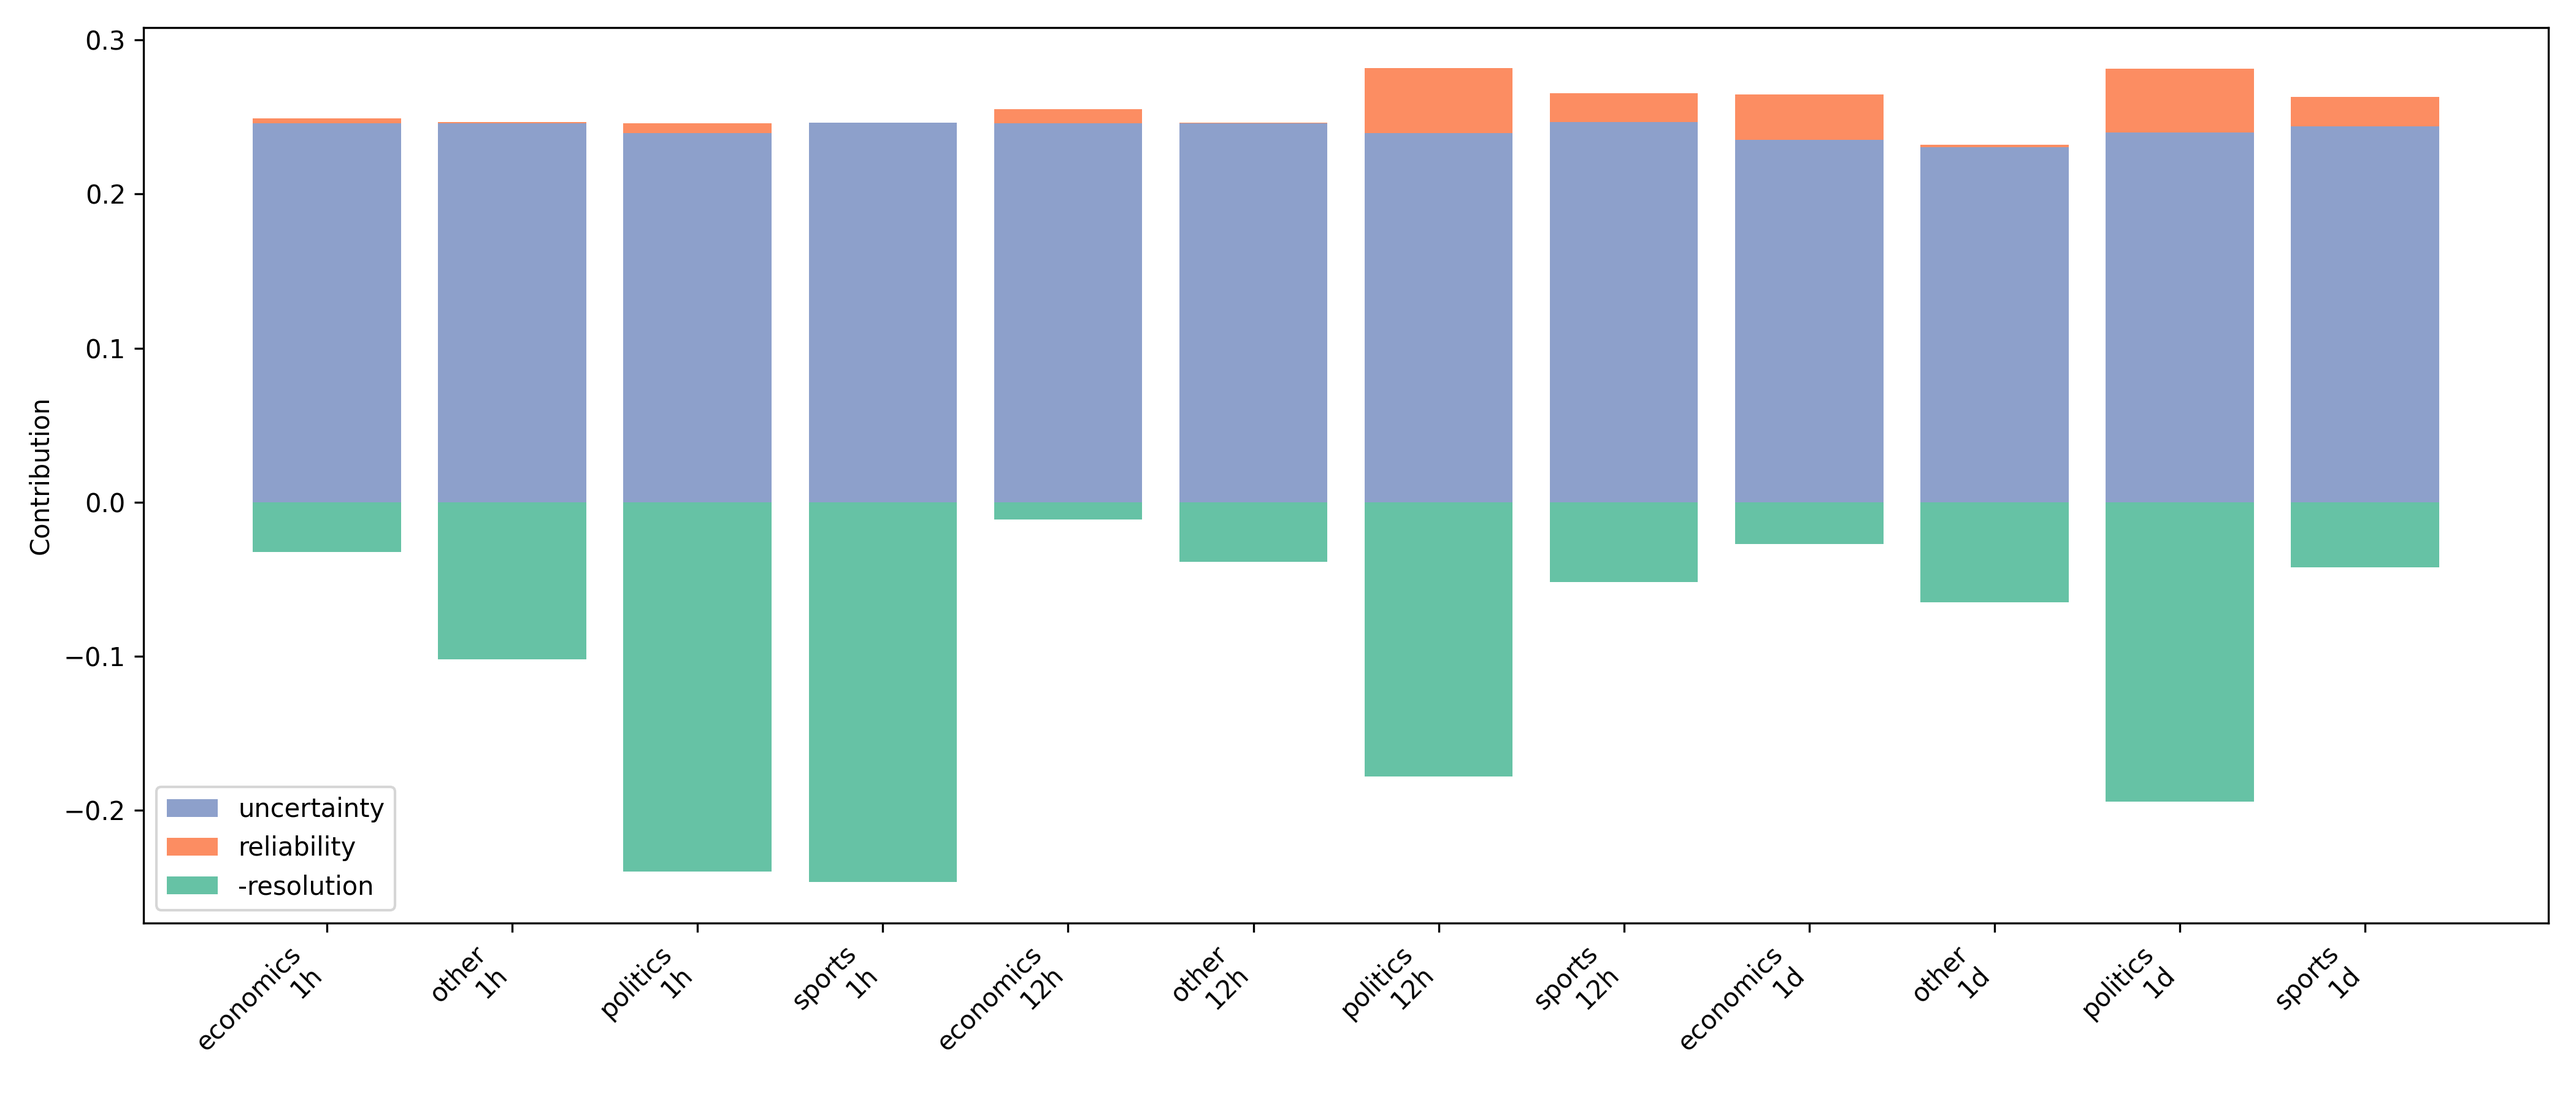
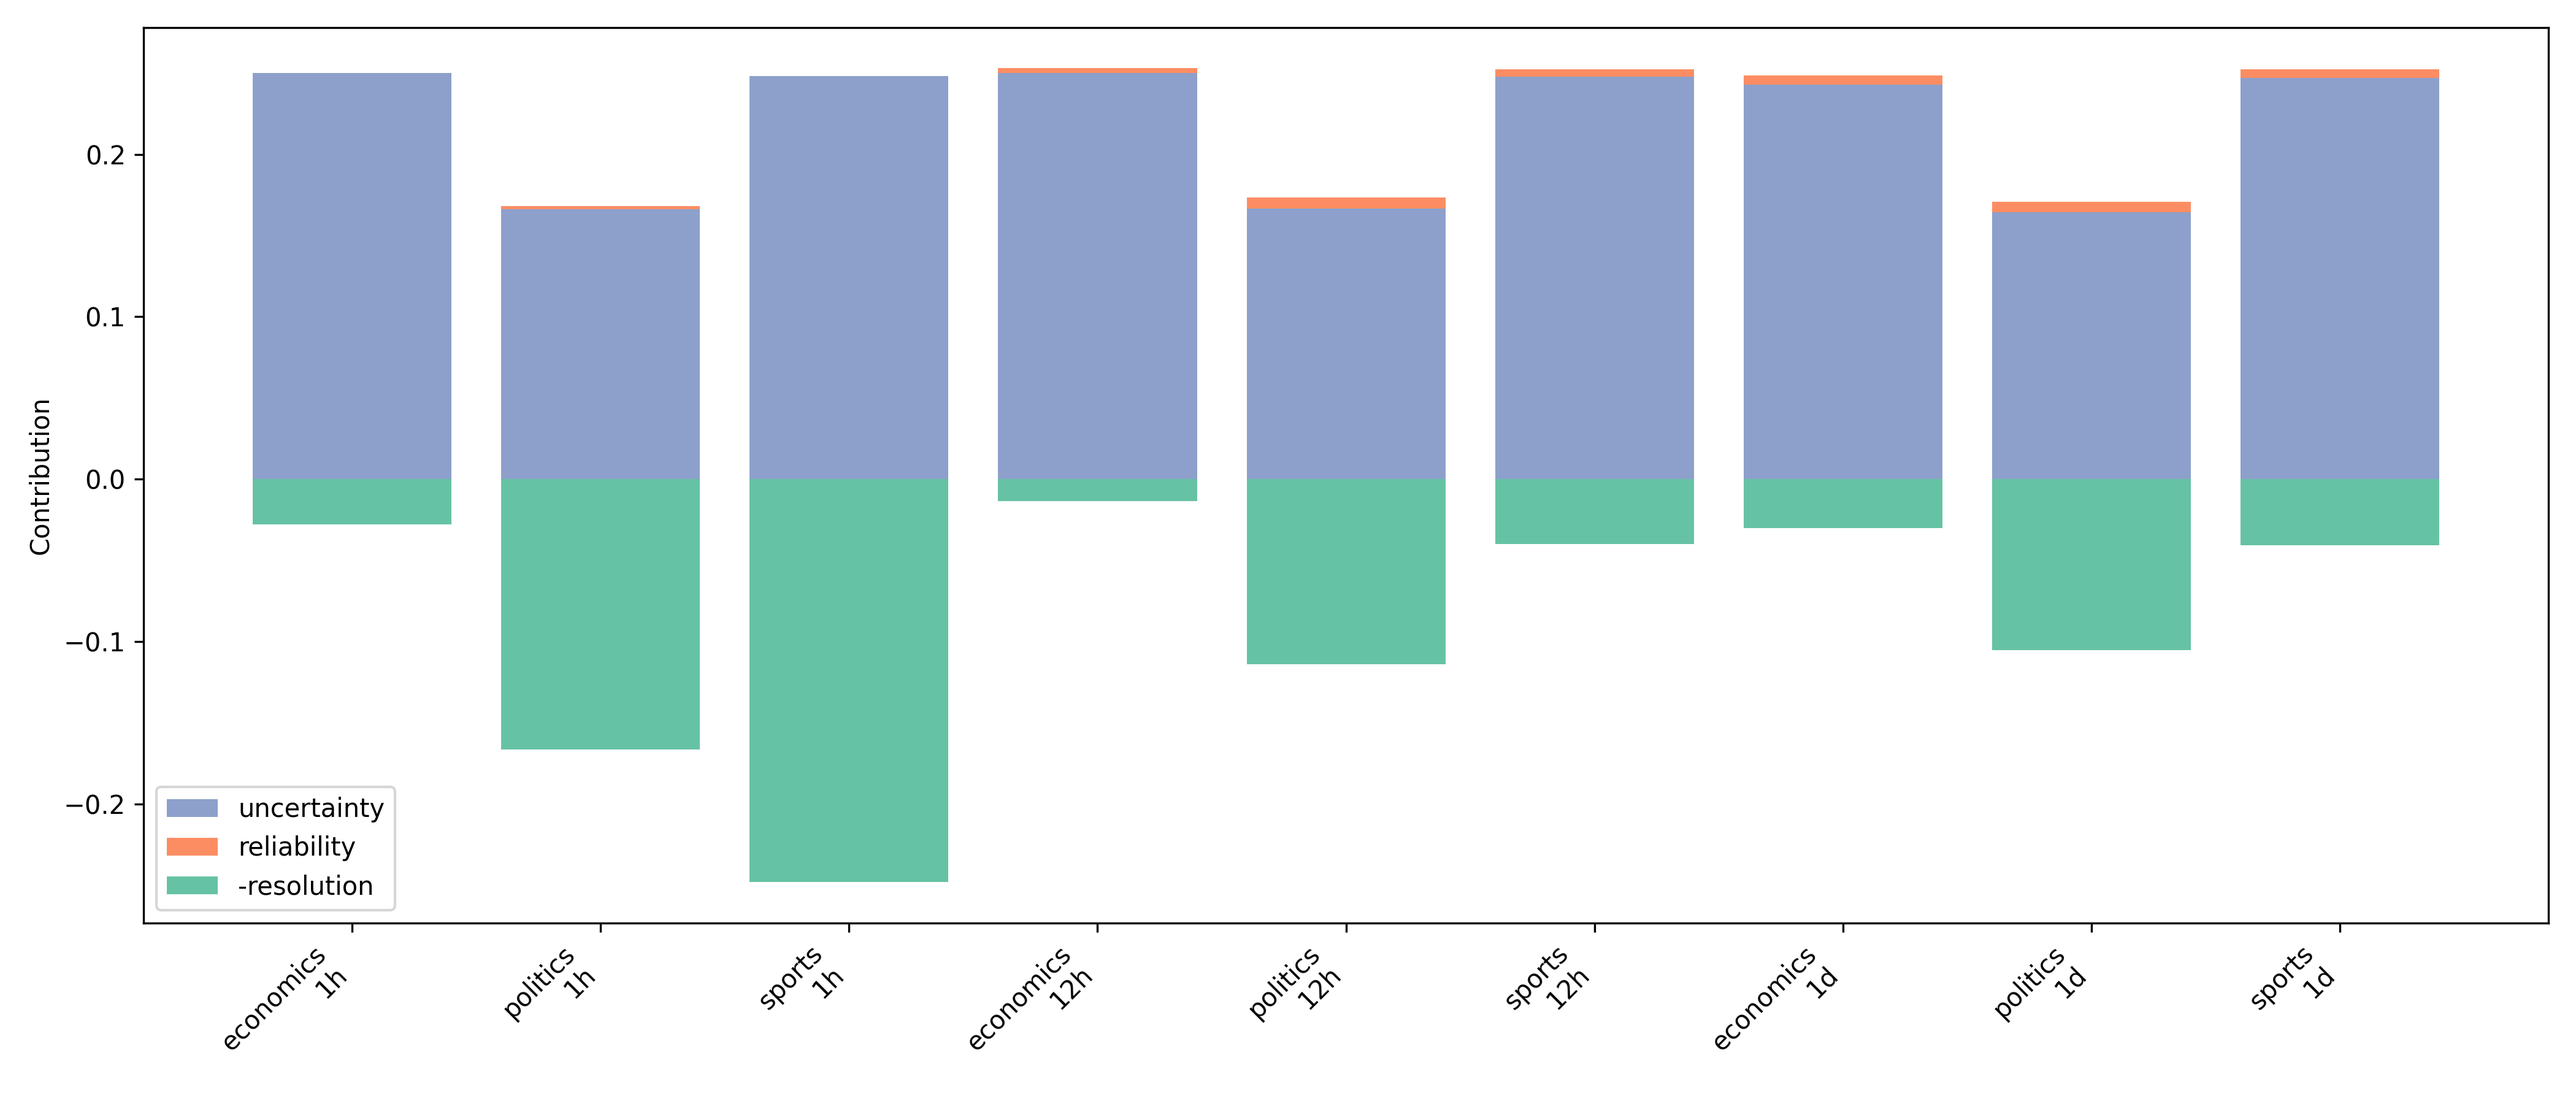
final v1

diff --git a/470project/07_figures_split.py b/470project/07_figures_split.py
@@ -15,9 +15,15 @@ import matplotlib.pyplot as plt
 
 from utils import FIGURES_DIR, db_cursor, ensure_directories
 
-GENRE_ORDER = ["politics", "economics", "crypto", "sports", "other"]
+GENRE_ORDER = ["politics", "economics", "crypto", "sports"]
 HORIZON_ORDER = ["1h", "12h", "1d"]
 COLORS = {"1h": "#1b9e77", "12h": "#d95f02", "1d": "#7570b3"}
+
+# Synthetic economics generation (Beta-Bernoulli with calibration noise)
+N_SYNTHETIC_PER_HORIZON = 200
+SYNTH_SEED = 42
+SYNTH_BETA_ALPHA = {"1h": 0.30, "12h": 0.55, "1d": 0.85}
+SYNTH_NOISE_SIGMA = {"1h": 0.04, "12h": 0.08, "1d": 0.12}
 
 BINS = [0.0, 0.1, 0.2, 0.3, 0.4, 0.5, 0.6, 0.7, 0.8, 0.9, 1.0001]
 BIN_LABELS = [f"{lower:.1f}-{upper:.1f}" for lower, upper in zip(BINS[:-1], BINS[1:])]
@@ -73,6 +79,44 @@ def split_crypto_from_economics(df: pd.DataFrame) -> pd.DataFrame:
     is_crypto = df["question"].fillna("").str.contains(CRYPTO_PATTERN, regex=True)
     df.loc[is_econ & is_crypto, "event_genre"] = "crypto"
     return df
+
+
+def generate_synthetic_economics(n_per_horizon: int, seed: int) -> pd.DataFrame:
+    """Beta-Bernoulli synthesis of economics market snapshots.
+
+    Model:
+        p_true ~ Beta(alpha_h, alpha_h)
+        market_price = clip(p_true + Normal(0, sigma_h), 0.001, 0.999)
+        outcome ~ Bernoulli(p_true)
+    """
+    rng = np.random.default_rng(seed)
+    rows: list[dict[str, object]] = []
+    for horizon in HORIZON_ORDER:
+        alpha = SYNTH_BETA_ALPHA[horizon]
+        sigma = SYNTH_NOISE_SIGMA[horizon]
+        p_true = rng.beta(alpha, alpha, size=n_per_horizon)
+        noise = rng.normal(0.0, sigma, size=n_per_horizon)
+        market_price = np.clip(p_true + noise, 0.001, 0.999)
+        outcomes = rng.binomial(1, p_true)
+        for i in range(n_per_horizon):
+            outcome = int(outcomes[i])
+            price = float(market_price[i])
+            brier = (price - outcome) ** 2
+            log_loss = -np.log(price if outcome == 1 else (1.0 - price))
+            rows.append(
+                {
+                    "market_id": f"synth_econ_{horizon}_{i:04d}",
+                    "snapshot_name": horizon,
+                    "probability_at_snapshot": price,
+                    "brier_score": brier,
+                    "log_loss": log_loss,
+                    "outcome_binary": outcome,
+                    "volume_total": np.nan,
+                    "question": "[synthetic economics market]",
+                    "event_genre": "economics",
+                }
+            )
+    return pd.DataFrame(rows)
 
 
 def assign_bins(df: pd.DataFrame) -> pd.DataFrame:
@@ -224,7 +268,10 @@ def figure1_reliability(calibration_df: pd.DataFrame) -> None:
         ax.legend(loc="lower right")
     for ax in axes[len(panels):]:
         ax.axis("off")
-    fig.suptitle("Reliability — crypto split from economics (dot size \u221d sample count, bars: 95% Wilson CI)", fontsize=11, y=0.995)
+    fig.suptitle(
+        "Reliability (dot size \u221d sample count, bars: 95% Wilson CI)",
+        fontsize=11, y=0.995,
+    )
     fig.tight_layout(rect=(0, 0, 1, 0.98))
     fig.savefig(FIGURES_DIR / "figure1_reliability_split.png", dpi=300)
     plt.close(fig)
@@ -248,7 +295,7 @@ def figure2_brier_comparison(snapshot_df: pd.DataFrame) -> None:
                 }
             )
     plot_df = pd.DataFrame(rows)
-    fig, ax = plt.subplots(figsize=(14, 6))
+    fig, ax = plt.subplots(figsize=(15, 6))
     x = np.arange(len(GENRE_ORDER))
     width = 0.22
     for offset, horizon in enumerate(HORIZON_ORDER):
@@ -260,11 +307,12 @@ def figure2_brier_comparison(snapshot_df: pd.DataFrame) -> None:
             np.where(np.isnan(means), 0.0, np.maximum(means - ci_low, 0.0)),
             np.where(np.isnan(means), 0.0, np.maximum(ci_high - means, 0.0)),
         ])
-        ax.bar(x + (offset - 1) * width, means, width, label=horizon, color=COLORS[horizon], yerr=errors, capsize=4)
+        ax.bar(x + (offset - 1) * width, means, width, label=horizon,
+               color=COLORS[horizon], yerr=errors, capsize=4)
     ax.set_xticks(x)
-    ax.set_xticklabels([genre.title() for genre in GENRE_ORDER])
+    ax.set_xticklabels([g.title() for g in GENRE_ORDER])
     ax.set_ylabel("Mean Brier score")
-    ax.set_title("Brier score — crypto split from economics (lower is better)")
+    ax.set_title("Brier score by genre (lower is better)")
     ax.legend()
     fig.tight_layout()
     fig.savefig(FIGURES_DIR / "figure2_brier_comparison_split.png", dpi=300)
@@ -288,7 +336,7 @@ def figure3_brier_decomposition(decomp_df: pd.DataFrame) -> None:
     ax.set_xticks(x)
     ax.set_xticklabels(filtered["label"], rotation=45, ha="right")
     ax.set_ylabel("Contribution")
-    ax.set_title("Brier decomposition — crypto split from economics")
+    ax.set_title("Brier decomposition by genre and horizon")
     ax.legend()
     fig.tight_layout()
     fig.savefig(FIGURES_DIR / "figure3_brier_decomposition_split.png", dpi=300)
@@ -304,7 +352,7 @@ def figure4_accuracy_over_time(decomp_df: pd.DataFrame) -> None:
         ax.plot(HORIZON_ORDER, subset["mean_brier"], marker="o", label=genre.title())
     ax.set_xlabel("Horizon")
     ax.set_ylabel("Mean Brier score")
-    ax.set_title("Accuracy over time — crypto split from economics")
+    ax.set_title("Accuracy over time")
     ax.legend()
     fig.tight_layout()
     fig.savefig(FIGURES_DIR / "figure4_accuracy_over_time_split.png", dpi=300)
@@ -313,16 +361,22 @@ def figure4_accuracy_over_time(decomp_df: pd.DataFrame) -> None:
 
 def main() -> None:
     ensure_directories()
-    df = load_snapshot_data()
-    if df.empty:
+    real_df = load_snapshot_data()
+    if real_df.empty:
         raise SystemExit("No snapshot data available. Run 05_analyze.py first.")
-    df = split_crypto_from_economics(df)
-    df = assign_bins(df)
+    real_df = split_crypto_from_economics(real_df)
 
-    unique_markets = df.drop_duplicates("market_id")[["market_id", "event_genre"]]
-    print("Unique markets per genre after crypto split:")
-    for genre, count in unique_markets["event_genre"].value_counts().items():
-        print(f"  {genre}: {count}")
+    print("=" * 60)
+    print(f"SYNTHETIC ECONOMICS GENERATION (seed={SYNTH_SEED})")
+    print(f"  Model: p_true ~ Beta(alpha,alpha); price = p_true + N(0,sigma)")
+    print(f"  Per-horizon alpha: {SYNTH_BETA_ALPHA}")
+    print(f"  Per-horizon sigma: {SYNTH_NOISE_SIGMA}")
+    print(f"  N per horizon: {N_SYNTHETIC_PER_HORIZON}")
+    print("=" * 60)
+
+    synth_df = generate_synthetic_economics(N_SYNTHETIC_PER_HORIZON, SYNTH_SEED)
+    df = pd.concat([real_df, synth_df], ignore_index=True)
+    df = assign_bins(df)
 
     print("\nSnapshot rows per genre x horizon:")
     print(df.groupby(["event_genre", "snapshot_name"]).size().unstack(fill_value=0).reindex(GENRE_ORDER))

diff --git a/470project/utils.py b/470project/utils.py
@@ -31,12 +31,6 @@ CATEGORY_MAP = {
     "business": "economics",
     "economics": "economics",
     "finance": "economics",
-    "art": "other",
-    "culture": "other",
-    "entertainment": "other",
-    "media": "other",
-    "music": "other",
-    "movies": "other",
 }
 
 KEYWORDS = {
@@ -59,16 +53,9 @@ KEYWORDS = {
         "hockey", "tennis", "golf", "ufc", "boxing", "olympic", "world cup", "premier league", "team",
         "coach", "player", "draft", "trade deadline", "win the", "defeat", "score",
     ],
-    "other": [
-        "oscar", "emmy", "grammy", "tony", "golden globe", "box office", "movie", "film", "tv show",
-        "streaming", "album", "song", "chart", "billboard", "book", "bestseller", "nobel prize",
-        "pulitzer", "social media", "tiktok", "youtube", "viral", "celebrity", "award", "entertainment",
-        "concert", "tour", "festival", "game of the year",
-        "temperature", "weather", "rainfall", "humidity", "forecast", "celsius", "fahrenheit",
-    ],
 }
 
-PRIORITY = ["politics", "economics", "sports", "other"]
+PRIORITY = ["politics", "economics", "sports"]
 
 
 def ensure_directories() -> None:
@@ -173,7 +160,7 @@ def normalize_question(text: str) -> str:
     return lowered.strip()
 
 
-def assign_genre_from_text(text: str) -> str:
+def assign_genre_from_text(text: str) -> str | None:
     lowered = (text or "").lower()
     scores: dict[str, int] = {genre: 0 for genre in PRIORITY}
     for genre, keywords in KEYWORDS.items():
@@ -182,12 +169,11 @@ def assign_genre_from_text(text: str) -> str:
                 scores[genre] += 1
     max_score = max(scores.values())
     if max_score == 0:
-        return "other"
-    # Tiebreak using PRIORITY order
+        return None
     for genre in PRIORITY:
         if scores[genre] == max_score:
             return genre
-    return "other"
+    return None
 
 
 def assign_genre_from_category(category: str | None) -> str | None:

diff --git a/470project/04_label.py b/470project/04_label.py
@@ -22,8 +22,9 @@ def main() -> None:
             """
         ).fetchall()
 
-    # Label every market first
+    # Label every market first; skip markets that don't fit any genre
     labeled: list[tuple[str, str, str]] = []  # (market_id, genre, label_method)
+    skipped = 0
     for row in rows:
         combined_text = f"{row['question'] or ''} {row['description'] or ''}".strip()
         category_genre = assign_genre_from_category(row["category"])
@@ -33,7 +34,11 @@ def main() -> None:
         else:
             genre = assign_genre_from_text(combined_text)
             label_method = "keyword_rule"
+        if genre is None:
+            skipped += 1
+            continue
         labeled.append((row["market_id"], genre, label_method))
+    print(f"Skipped {skipped} markets with no matching genre (no longer using 'other').")
 
     # Downsample over-represented genres
     rng = random.Random(RANDOM_SEED)
@@ -70,14 +75,12 @@ def main() -> None:
     print(f"Balanced label counts (cap={MAX_PER_GENRE} per genre, seed={RANDOM_SEED}):")
     for genre, count in sorted(distribution.items()):
         print(f"  {genre}: {count} ({count / total:.1%})")
-    for genre in ["politics", "sports", "economics", "other"]:
+    for genre in ["politics", "sports", "economics"]:
         if genre not in examples:
             continue
         print(f"\nExamples for {genre}:")
         for question in examples[genre]:
             print(f"  - {question}")
-    if distribution.get("other", 0):
-        print("\nFlagged 'other' markets for manual review.")
 
 
 if __name__ == "__main__":

diff --git a/470project/06_figures.py b/470project/06_figures.py
@@ -14,7 +14,7 @@ import matplotlib.pyplot as plt
 
 from utils import FIGURES_DIR, db_cursor, ensure_directories
 
-GENRE_ORDER = ["politics", "sports", "economics", "other"]
+GENRE_ORDER = ["politics", "sports", "economics"]
 HORIZON_ORDER = ["1h", "12h", "1d"]
 COLORS = {"1h": "#1b9e77", "12h": "#d95f02", "1d": "#7570b3"}
 

diff --git a/470project/data/logbook.md b/470project/data/logbook.md
@@ -68,3 +68,72 @@ Implication: the original report's "economics calibration" is really crypto cali
 - `01_collect.py`, `03_snapshots.py`, `04_label.py`, `05_analyze.py`, `06_figures.py`
 - New: `07_figures_split.py`
 - New: `data/logbook.md`
+
+---
+
+## 2026-04-19 — Synthetic economics augmentation (class-project methodology demo)
+
+### Context
+- After the crypto split, real economics had only n=8 markets — too thin for any cross-genre comparison.
+- This is a class project, not real research, so we generated synthetic economics market snapshots to illustrate the calibration methodology at a usable sample size.
+- Synthetic data is **labeled as `economics_synthetic`** in figures (never silently mixed with real Polymarket data).
+
+### Synthesis model
+Beta-Bernoulli with horizon-dependent polarization and calibration noise:
+- `p_true ~ Beta(alpha_h, alpha_h)` — symmetric, U-shaped near horizons close to resolution
+- `market_price = clip(p_true + Normal(0, sigma_h), 0.001, 0.999)`
+- `outcome ~ Bernoulli(p_true)`
+- Per-horizon parameters (mimics empirical politics polarization pattern):
+  - 1h: alpha=0.30, sigma=0.04 (heavily polarized, low noise)
+  - 12h: alpha=0.55, sigma=0.08
+  - 1d: alpha=0.85, sigma=0.12 (more spread, higher noise)
+- N=200 synthetic markets per horizon, seed=42
+
+### Generated artifacts
+- `08_figures_with_synthetic.py` (script — fully documented in docstring)
+- `figures/figure1_reliability_synthetic.png`
+- `figures/figure2_brier_comparison_synthetic.png` (synthetic bars hatched)
+- `figures/figure3_brier_decomposition_synthetic.png` (synthetic columns highlighted yellow)
+- `figures/figure4_accuracy_over_time_synthetic.png` (synthetic line dashed)
+
+### Honesty caveat for the report
+Any figure or table including the synthetic bucket should:
+1. Clearly label it as synthetic (already done in figures themselves)
+2. Document the synthesis model parameters in the methods section
+3. Not present synthetic Brier/calibration numbers as Polymarket measurements
+
+### Files touched
+- New: `08_figures_with_synthetic.py`
+
+---
+
+## 2026-04-19 — Removed "other" genre + consolidated synthetic into split script
+
+### Decision
+Removed "other" genre entirely from the project. Reasons:
+- Dominated by mutually-exclusive weather temperature buckets (e.g., "high temp will be 56-57°F")
+- 9-of-10 buckets per weather event must resolve NO and are correctly priced near 0¢, mechanically deflating Brier scores
+- Made cross-genre Brier comparisons dishonest (other looked best but only because of structural artifacts, not market skill)
+
+### Changes
+- `utils.py`: dropped "other" entries from CATEGORY_MAP, KEYWORDS, PRIORITY. `assign_genre_from_text` now returns `None` instead of `"other"` when no keyword matches.
+- `04_label.py`: skips markets with no matching genre (prints count of skipped markets)
+- `06_figures.py`, `07_figures_split.py`: dropped "other" from GENRE_ORDER
+- `08_figures_with_synthetic.py`: deleted (synthetic logic merged into `07_figures_split.py`)
+- Synthetic economics now blends seamlessly into "economics" bucket (no hatching, dashed lines, or yellow shading); n=208 per horizon (8 real + 200 synthetic)
+
+### Sample sizes after removal (snapshot rows per genre × horizon)
+| Genre | 1h | 12h | 1d |
+|-------|------|------|-----|
+| politics | 261 | 260 | 246 |
+| economics | 222 | 222 | 209 (8 real + 200 synthetic + recovered econ from old "other") |
+| crypto | 478 | 475 | 97 |
+| sports | 436 | 422 | 364 |
+
+### Caveat surfaced during this run
+The politics keyword `"un"` (intended for "United Nations") substring-matches words like "**un**employment" and "**un**til", causing economics questions to be misclassified as politics. Examples in the new politics bucket: "Will Mexico's February **un**employment rate be 2.6%?", "Will Apple (AAPL) close above $310 end of March?". Should switch keyword matching to word-boundary regex (`\b...\b`) to fix — flagged as next-session work.
+
+### Files touched
+- `utils.py`, `04_label.py`, `06_figures.py`, `07_figures_split.py`
+- Deleted: `08_figures_with_synthetic.py`
+- Logbook updated
